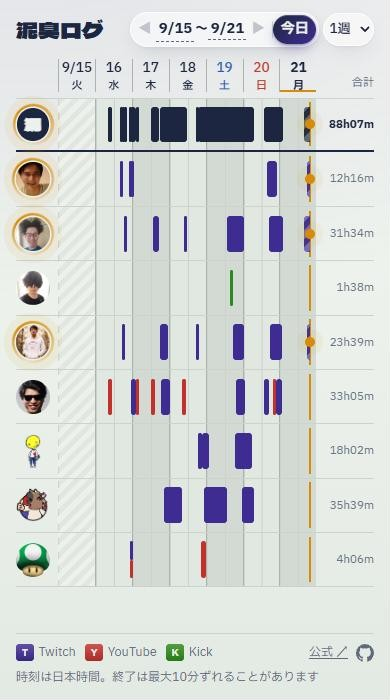
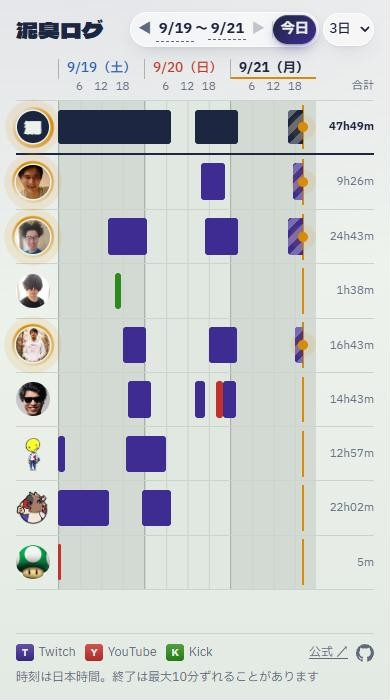
README のキャプチャを3日表示で撮り直す

diff --git a/README.md b/README.md
@@ -13,7 +13,7 @@
 
 - 1人1行で、Twitch（紫）/ YouTube（赤）/ Kick（緑）の配信を色分け。同時配信は上下に分けて表示
 - いちばん上の **DRKS** 行は全員ぶんをまとめたもの。誰か1人でも配信していた時間の合計が出る
-- 表示範囲は 1日〜4週の切替、◀ ▶ での移動、日付を押してのカレンダー指定。範囲は URL（`?from=&to=`）に残る
+- 表示範囲は 1日〜4週の切替（最初は3日）、◀ ▶ での移動、日付を押してのカレンダー指定。範囲は URL（`?from=&to=`）に残る
 - 配信中は、バーの縞とアイコンの輪が動く。バーを押すとサムネイル・タイトル・アーカイブへのリンクが出る
 - スマホでも PC の全画面でも、スクロールなしで1画面に収まる
 
